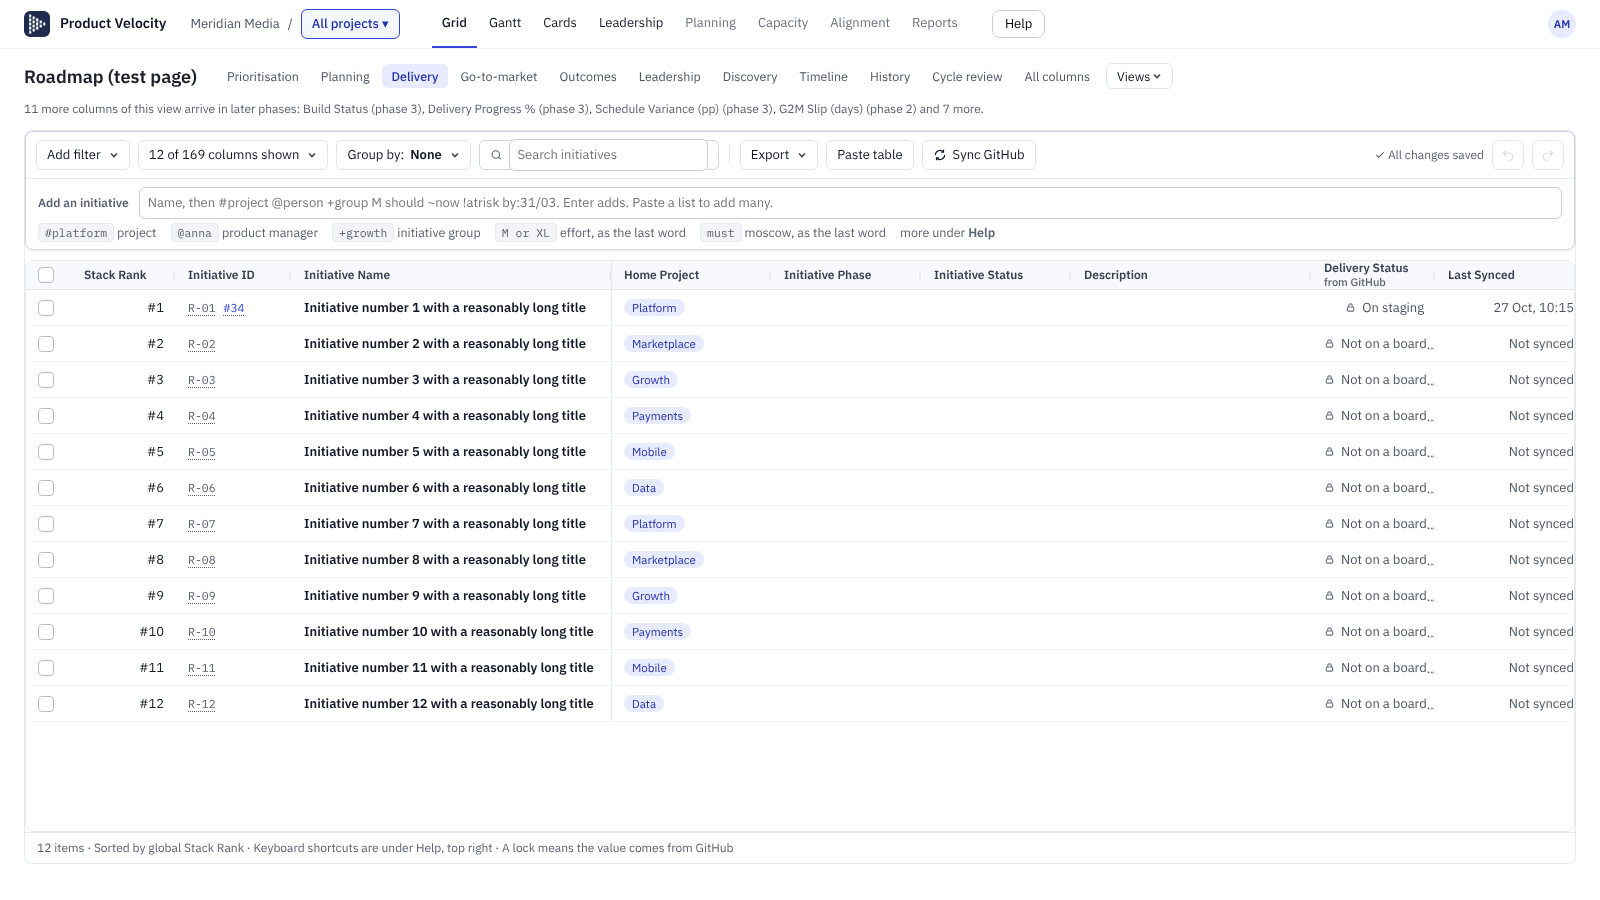
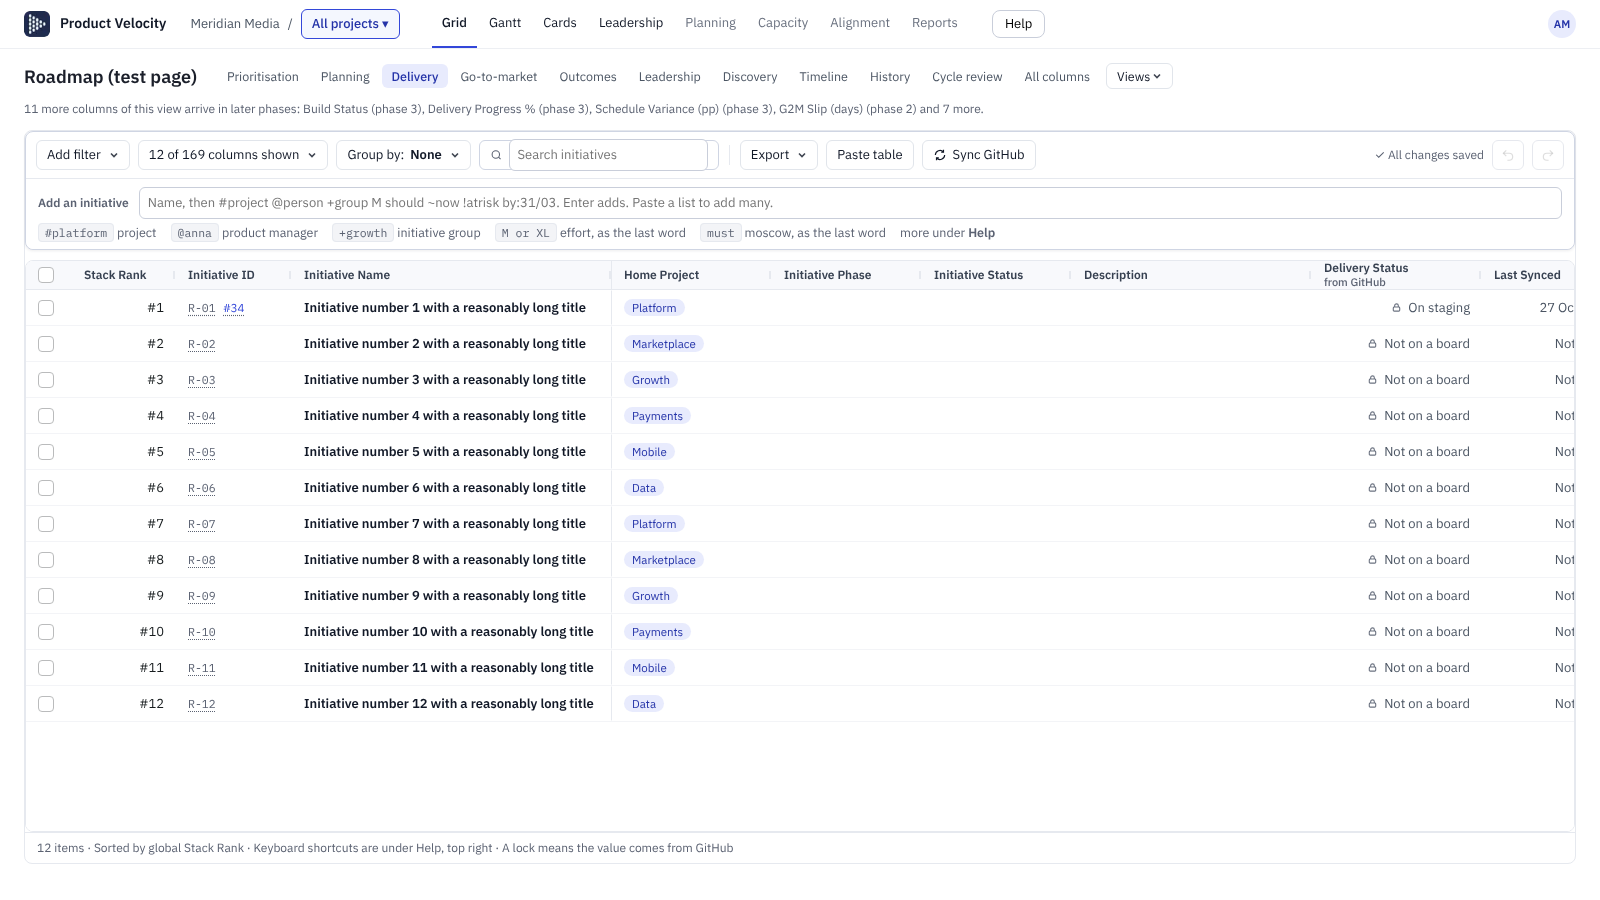
Wider Delivery Status column and screenshot
Claude-Session: https://claude.ai/code/session_01RLE7CotBaUe74bPtiiRYNc

diff --git a/apps/web/src/features/portfolio/columns.tsx b/apps/web/src/features/portfolio/columns.tsx
@@ -54,7 +54,7 @@ const WIDTH: Record<string, number> = {
   Select: 150, Text: 190, "Long text": 240, Number: 112, Currency: 120, Date: 116, "Date range": 170, Person: 190, "Person or text": 170,
   People: 190, Boolean: 96, Tags: 170, Links: 200, Relation: 150, Files: 170, Thread: 150, Structured: 170, Note: 150, System: 130, Computed: 124,
 };
-const WIDE: Record<string, number> = { initiative_name: 320, home_project: 160, stack_rank: 104, item_code: 116, project_rank: 124, health: 130, last_synced: 150, synced_with: 300 };
+const WIDE: Record<string, number> = { initiative_name: 320, home_project: 160, stack_rank: 104, item_code: 116, project_rank: 124, health: 130, last_synced: 150, synced_with: 300, gh_project_status: 170 };
 
 export type ColumnContext = {
   controller: PortfolioController;
